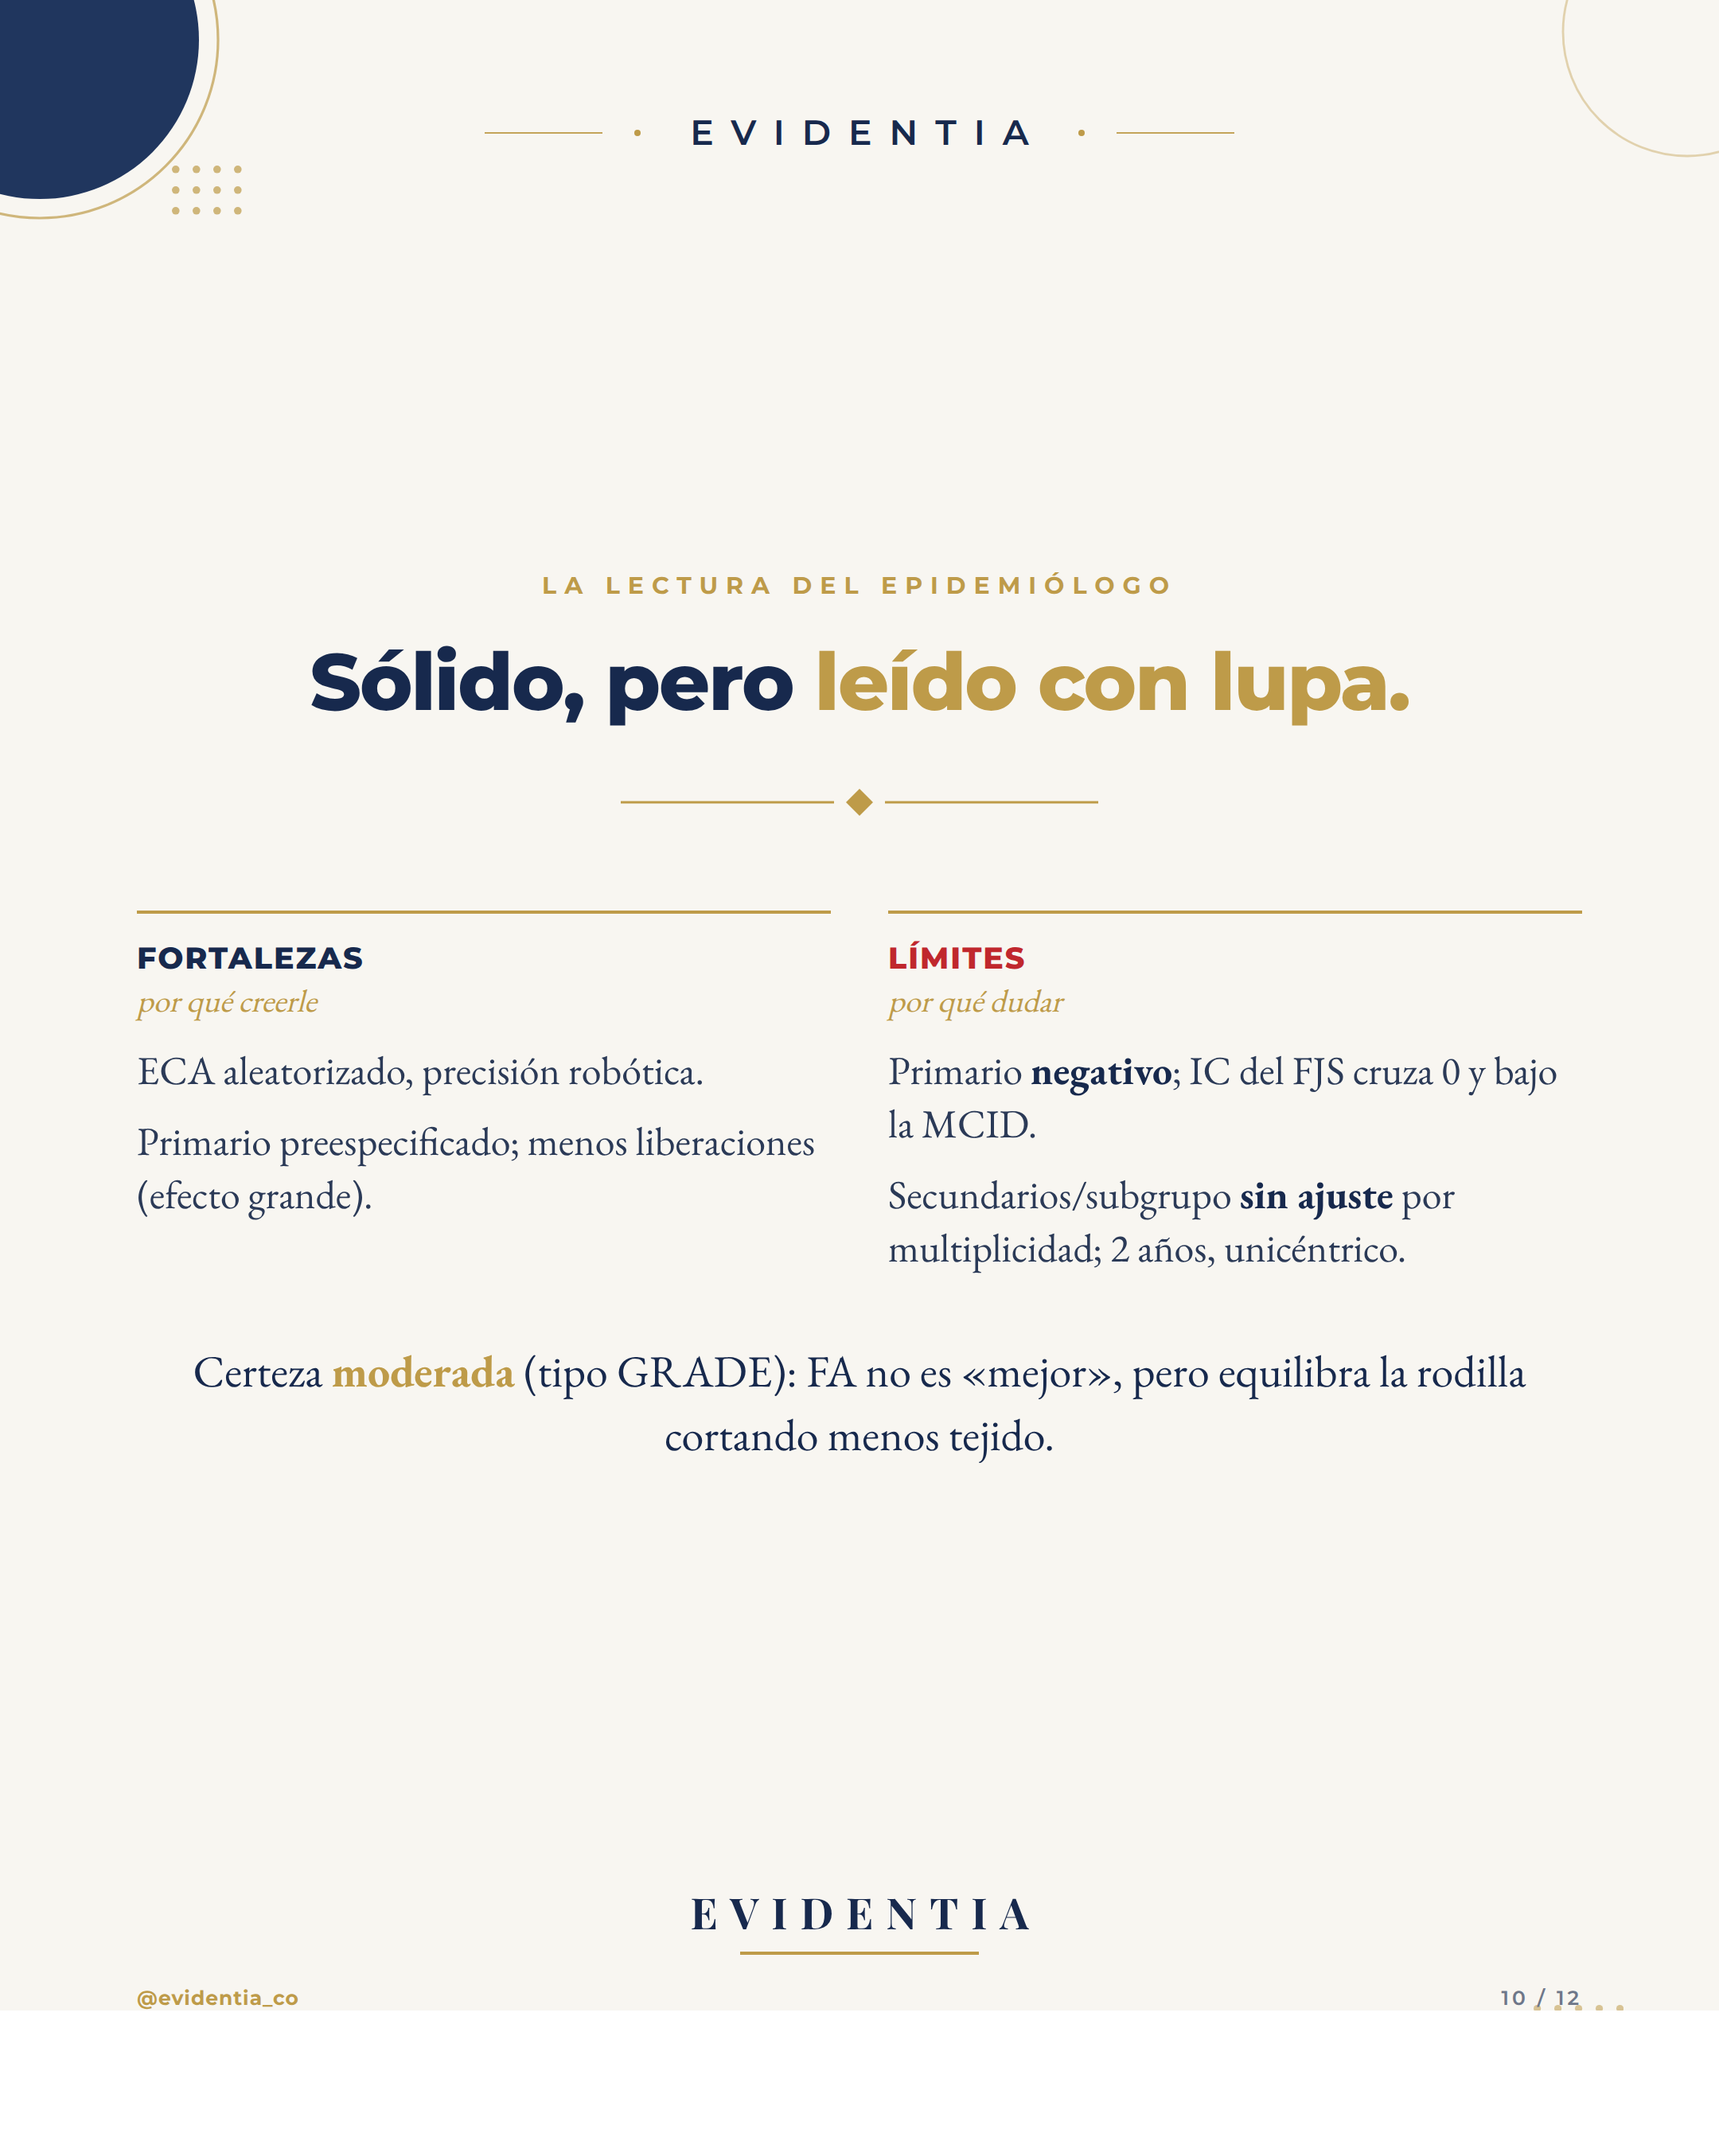
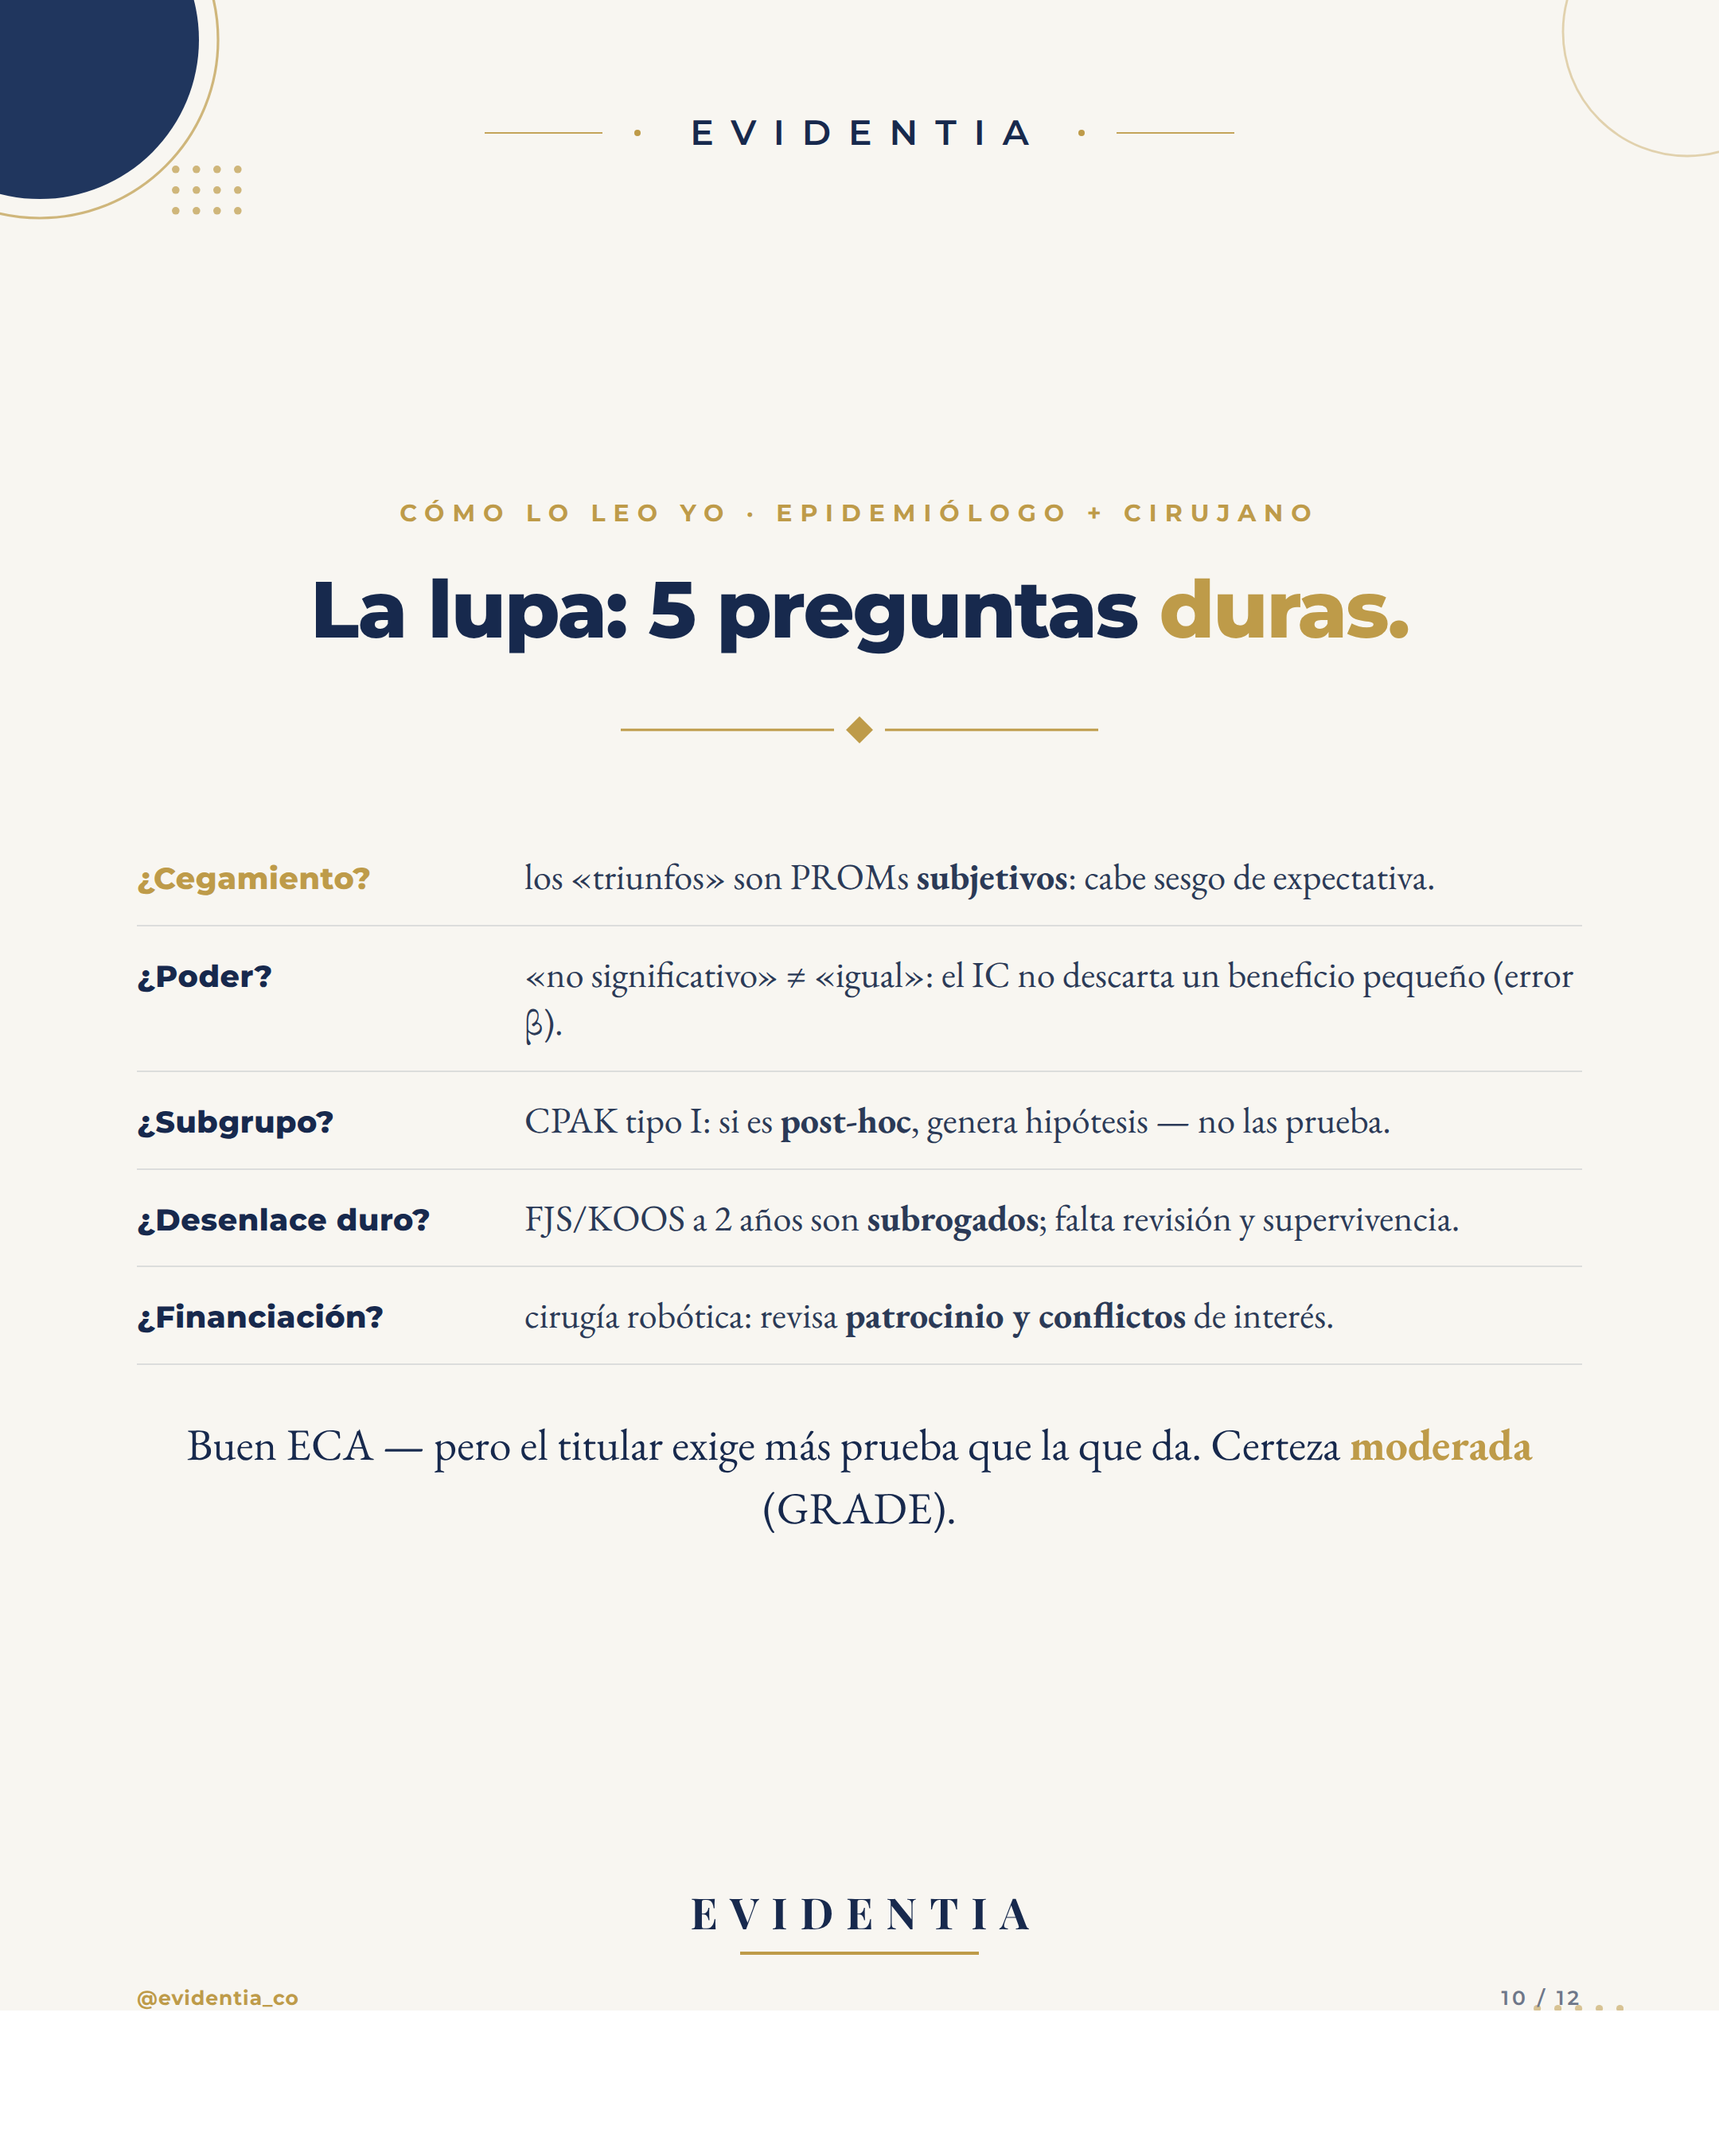
evidentia: lente crítica combinada (epidemiólogo + cirujano) en el carrusel Insall
Convierte la lámina del epidemiólogo en «La lupa: 5 preguntas duras» — una
appraisal/risk-of-bias tipo revista que combina las dos lentes:
cegamiento y sesgo en PROMs subjetivos · poder / error beta («no significativo»
no prueba «igual») · subgrupo pre-especificado vs post-hoc · desenlace subrogado
a 2 años · financiación y conflictos de interés. Cierra con certeza GRADE.

Claude-Session: https://claude.ai/code/session_01199aQGSaHniMgd8evnMZQV

diff --git a/evidentia/carrusel-alineacion-rodilla-insall/src/assemble_insall.py b/evidentia/carrusel-alineacion-rodilla-insall/src/assemble_insall.py
@@ -228,24 +228,17 @@ add(f"""
 
 # 10 · THE EPIDEMIOLOGIST'S VERDICT
 add(f"""
-  <div class="kick" style="text-align:center;width:100%;">La lectura del epidemiólogo</div>
-  <h1 class="h-md" style="text-align:center;width:100%;">Sólido, pero <span class="gd" style="color:{GOLD};">leído con lupa.</span></h1>
-  <div style="display:flex;justify-content:center;margin:6px 0 20px;width:100%;">{dvd(300)}</div>
-  <div class="cols2">
-    <div class="col"><div class="cr">
-      <div class="ct" style="color:{NAVY};">Fortalezas</div>
-      <div class="cs">por qué creerle</div>
-      <p>ECA aleatorizado, precisión robótica.</p>
-      <p>Primario preespecificado; menos liberaciones (efecto grande).</p>
-    </div></div>
-    <div class="col"><div class="cr">
-      <div class="ct" style="color:{RED};">Límites</div>
-      <div class="cs">por qué dudar</div>
-      <p>Primario <b>negativo</b>; IC del FJS cruza 0 y bajo la MCID.</p>
-      <p>Secundarios/subgrupo <b>sin ajuste</b> por multiplicidad; 2 años, unicéntrico.</p>
-    </div></div>
+  <div class="kick" style="text-align:center;width:100%;">Cómo lo leo yo · epidemiólogo + cirujano</div>
+  <h1 class="h-md" style="text-align:center;width:100%;">La lupa: 5 preguntas <span class="gd" style="color:{GOLD};">duras.</span></h1>
+  <div style="display:flex;justify-content:center;margin:6px 0 14px;width:100%;">{dvd(300)}</div>
+  <div style="width:100%;text-align:left;max-width:948px;margin:0 auto;">
+    {trow('¿Cegamiento?', 'los «triunfos» son PROMs <b>subjetivos</b>: cabe sesgo de expectativa.', hi=True)}
+    {trow('¿Poder?', '«no significativo» ≠ «igual»: el IC no descarta un beneficio pequeño (error β).')}
+    {trow('¿Subgrupo?', 'CPAK tipo I: si es <b>post-hoc</b>, genera hipótesis — no las prueba.')}
+    {trow('¿Desenlace duro?', 'FJS/KOOS a 2 años son <b>subrogados</b>; falta revisión y supervivencia.')}
+    {trow('¿Financiación?', 'cirugía robótica: revisa <b>patrocinio y conflictos</b> de interés.')}
   </div>
-  <p class="tieline">Certeza <b>moderada</b> (tipo GRADE): FA no es «mejor», pero equilibra la rodilla cortando menos tejido.</p>
+  <p class="tieline">Buen ECA — pero el titular exige más prueba que la que da. Certeza <b>moderada</b> (GRADE).</p>
 """, kind="content")
 
 # 11 · APPLY — what you take to the OR

diff --git a/evidentia/carrusel-alineacion-rodilla-insall/README.md b/evidentia/carrusel-alineacion-rodilla-insall/README.md
@@ -24,8 +24,9 @@ Datos clave (ECA asistido por robot, MA n=121 vs FA n=123, 2 años):
 6 **El intervalo de confianza del primario** (barra IC95% que cruza el 0 y queda bajo la MCID) ·
 7 **Forest plot** (primario + secundarios con su IC95%; solo el primario cruza el 0) ·
 8 El hallazgo sólido (menos liberaciones, IC95% ≈ 38–60%) · 9 La trampa del subgrupo (CPAK I) ·
-10 La lectura del epidemiólogo (incluye multiplicidad + certeza tipo GRADE) · 11 Cuatro conclusiones (chuleta) ·
-12 Cierre + pregunta de debate.
+10 **La lupa del epidemiólogo + cirujano: 5 preguntas duras** (cegamiento/sesgo en PROMs · poder y error β ·
+subgrupo pre-especificado vs post-hoc · desenlace subrogado · financiación/conflictos) + certeza tipo GRADE ·
+11 Cuatro conclusiones (chuleta) · 12 Cierre + pregunta de debate.
 
 ### Sobre los intervalos de confianza
 El artículo (revista de suscripción, no en PMC) reporta medias ± DE y valores p, pero no publica
